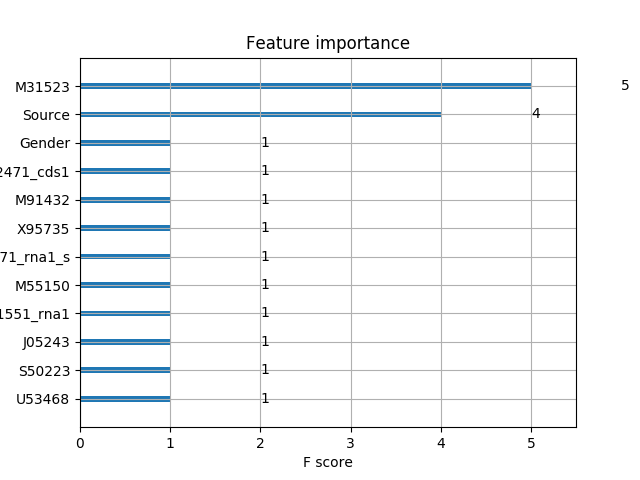
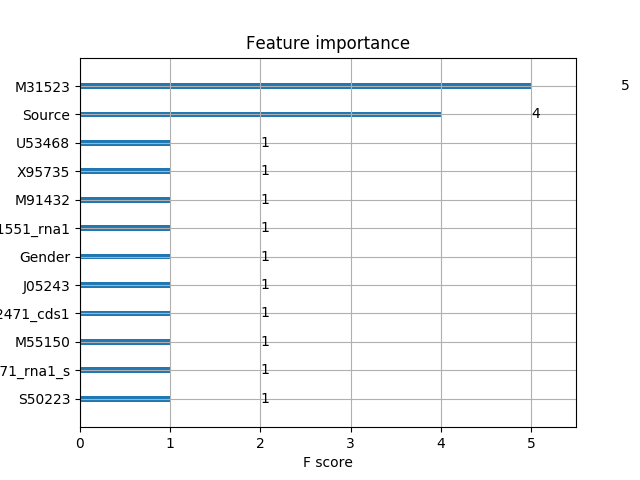
fix

diff --git a/Lab3_ClassificationTrees.py b/Lab3_ClassificationTrees.py
@@ -52,7 +52,7 @@ def model(data, label, feature_name):
     # 'scale_pos_weight' - for unbalanced dataset (calculated as negative / positive)
     params = {
         'objective': 'binary:logistic',
-        'max_depth': 3,
+        'max_depth': 5,
         'max_delta_step': 1,
         'scale_pos_weight': 3
     }
